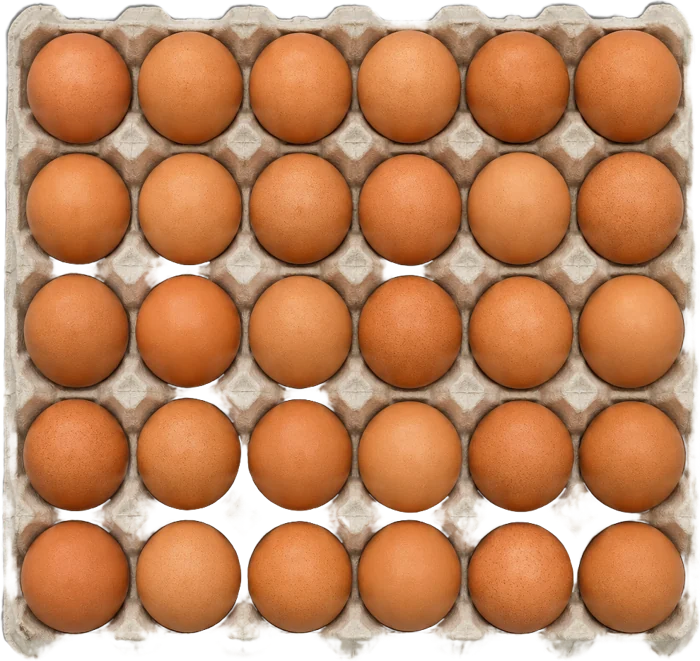
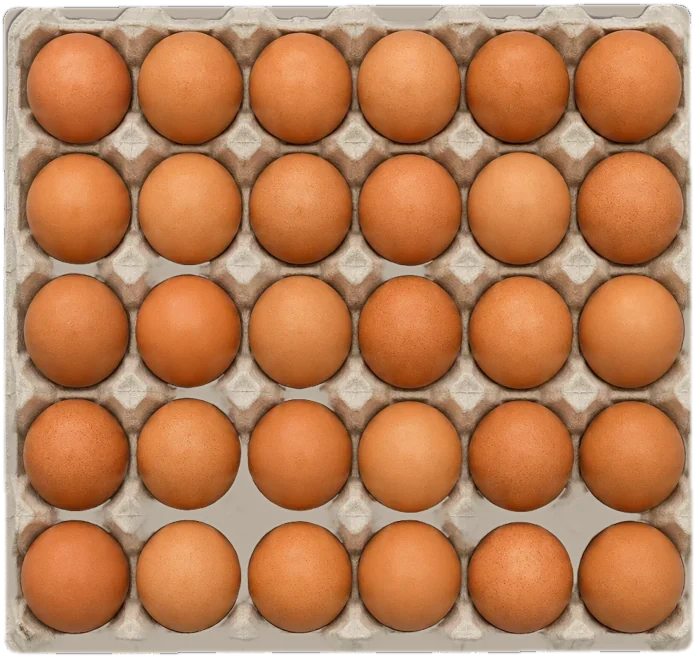
Softer coral for The Krate section, new baking + business photos, cleaned-up crate image, badge text sized to fit
Claude-Session: https://claude.ai/code/session_01CetSzrATYKyMzFUAfiEgoN

diff --git a/index.html b/index.html
@@ -411,7 +411,7 @@ footer nav a{font-size:20px!important}
 #kPull.on-light{background:#014621!important;color:#5bc20f!important;border-top-color:#5bc20f!important}
 @media (max-width:743px){.hs-jumbo b{font-size:6.6vw}.hs-jumbo small{font-size:2.3vw}}
 /* ---- The Krate (orange): calm two-column ---- */
-.e-sec{position:relative;overflow:hidden;background:#f53509;color:#191718;padding:4vw 4vw 7vw;margin-top:-1px}
+.e-sec{position:relative;overflow:hidden;background:#ef7a4c;color:#191718;padding:4vw 4vw 7vw;margin-top:-1px}
 .e-wrap{position:relative;max-width:1200px;margin:0 auto;display:flex;flex-direction:column;align-items:center}
 .e-tag{margin:0;display:inline-flex;gap:8px;align-items:center;padding:7px 14px;background:#f6eceb;border-radius:6px;font-size:12px;font-weight:700;letter-spacing:.06em;text-transform:uppercase}
 .e-tag span{width:8px;height:8px;border-radius:50%;background:#f53509}
@@ -490,6 +490,13 @@ footer nav a{font-size:20px!important}
 .a-acts button{min-height:38px;padding:0 14px;border-radius:999px;border:2px solid #014621;background:transparent;color:#014621;font:700 13px 'Inter Tight',sans-serif;cursor:pointer}
 #cAcct a{color:#014621;font-weight:700}
 @media (max-width:743px){.a-fab{left:14px;bottom:14px;width:50px;height:50px}}
+.e-tag span{background:#ef7a4c}
+.t-shop .t-disc{background:radial-gradient(circle at 35% 30%,#f9a07a,#ef7a4c 55%,#e0643a)}
+/* badge text scales with the badge so it always fits inside the ring */
+.t-shop .hs-jumbo{container-type:inline-size;width:28%;right:3%;top:5%;gap:.5cqw}
+.t-shop .hs-jumbo b{font-size:19cqw!important;line-height:1}
+.t-shop .hs-jumbo small{font-size:6.6cqw!important;letter-spacing:.08em}
+@media (max-width:743px){.t-shop .hs-jumbo{width:32%}}
 </style></head>
 <body>
 
@@ -722,7 +729,7 @@ a{color:#014621}a:hover{color:#191718}
 <!-- ================= 3. RIBBON ================= -->
 <div aria-hidden="true" class="k-ribbon" style="position: relative; height: 300px; background: #014621; margin-top: -1px; margin-bottom: -1px; overflow: hidden">
 <svg viewBox="0 0 1440 300" preserveAspectRatio="xMidYMid slice" style="position: absolute; inset: 0; width: 100%; height: 100%">
-<path d="M-400 250 C 300 120, 700 260, 1050 150 S 1500 80, 1900 85 L 1900 400 L -400 400 Z" fill="#f53509"></path><path d="M-400 250 C 300 120, 700 260, 1050 150 S 1500 80, 1900 85" fill="none" stroke="#5bc20f" stroke-width="120"></path>
+<path d="M-400 250 C 300 120, 700 260, 1050 150 S 1500 80, 1900 85 L 1900 400 L -400 400 Z" fill="#ef7a4c"></path><path d="M-400 250 C 300 120, 700 260, 1050 150 S 1500 80, 1900 85" fill="none" stroke="#5bc20f" stroke-width="120"></path>
 </svg>
 <svg viewBox="0 0 1440 300" preserveAspectRatio="xMidYMid slice" style="position: absolute; inset: 0; width: 100%; height: 100%">
 <path id="kRibbonPath" d="M-400 250 C 300 120, 700 260, 1050 150 S 1500 80, 1900 85" fill="none"></path>
